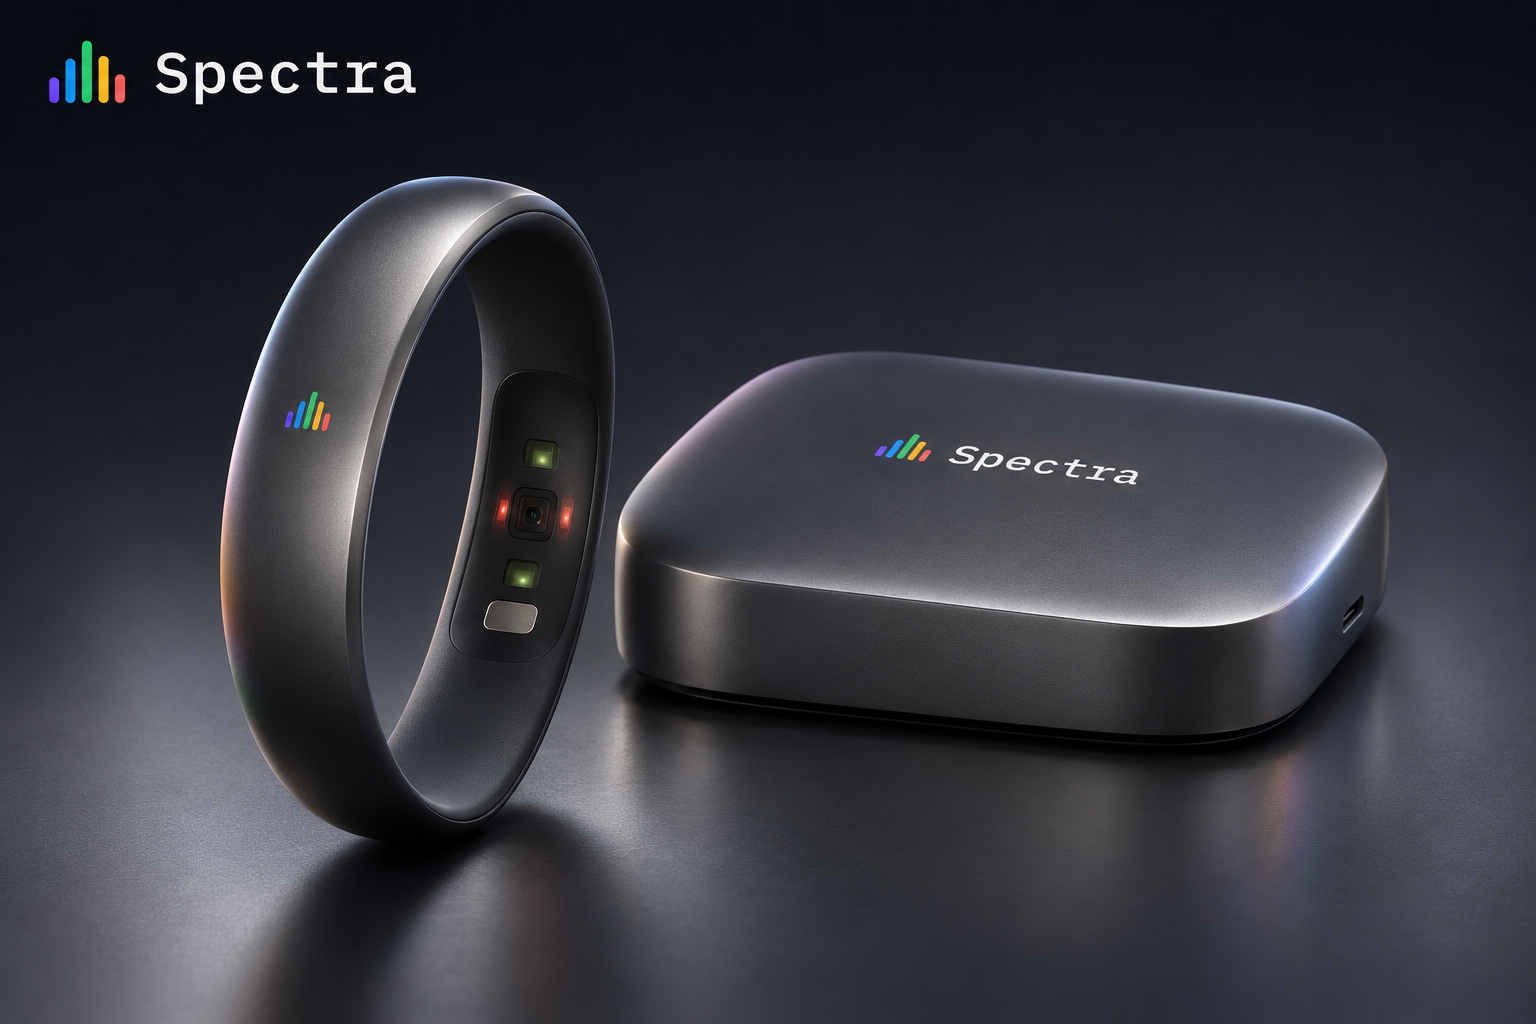
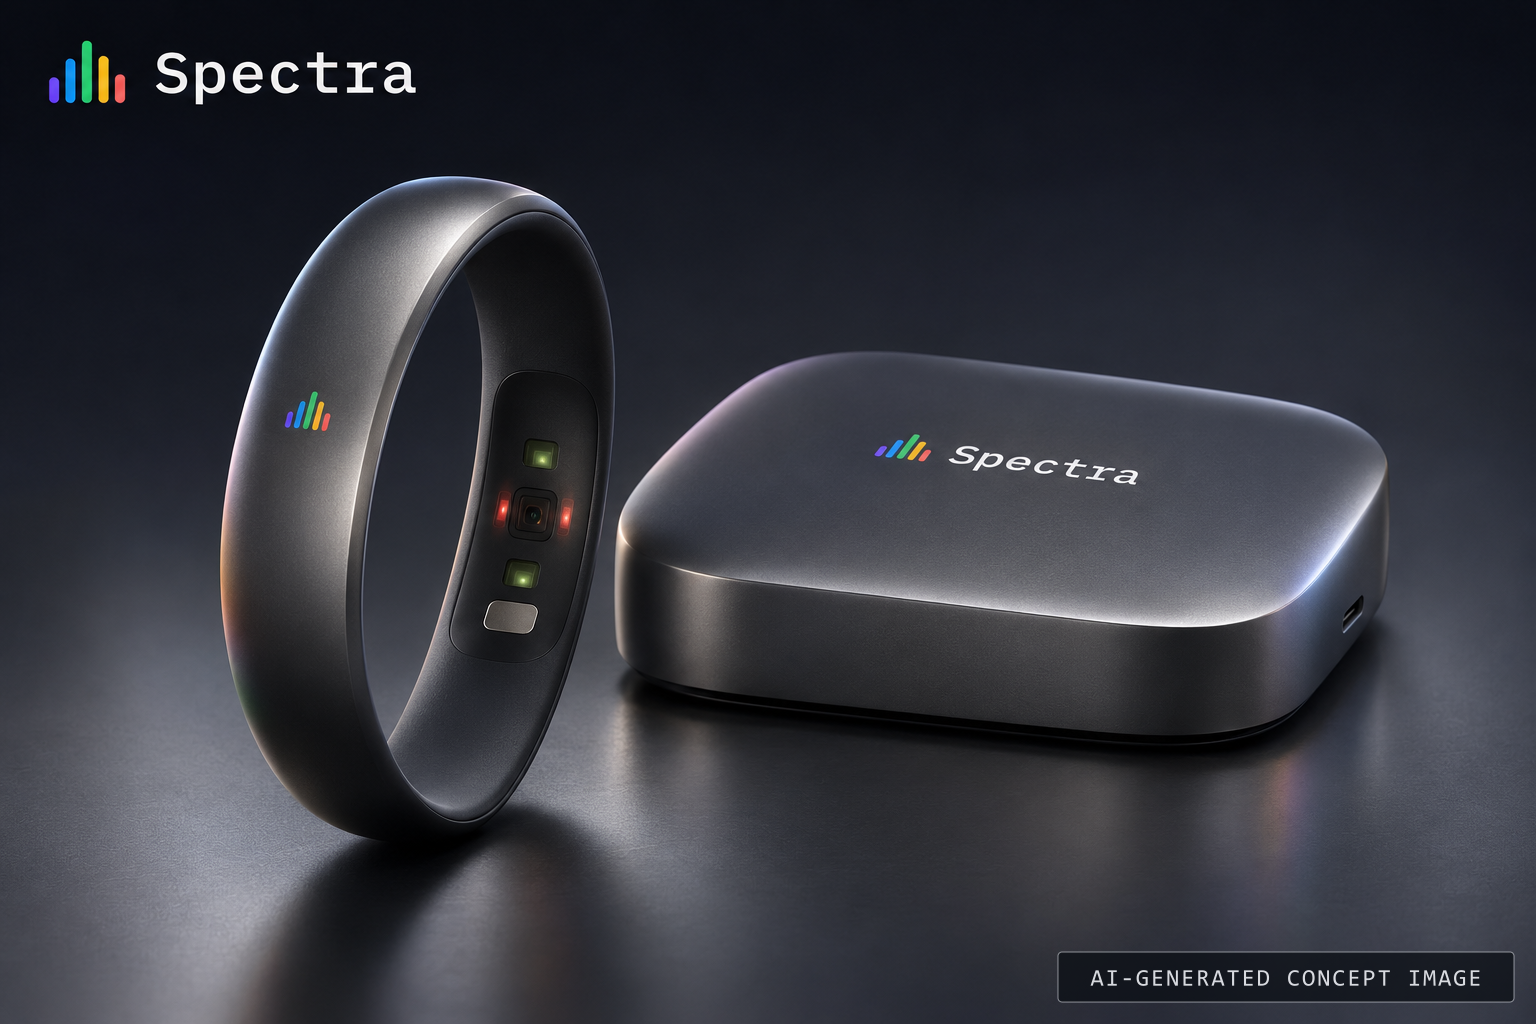
docs: rewrite the README, declare AI use and mark the generated images
Every image in src/assets now carries a visible AI-generated mark, and the two renders whose mark is masked by the layout get a caption. The README states what is real, what is synthetic and what is proposed, lists the open data, and holds the declaration of AI use.

Changed region(s): [[0.6875, 0.9062, 1.0, 1.0]]

diff --git a/README.md b/README.md
@@ -1,6 +1,36 @@
 # Spectra
 
-Screenless sensing and onboard intelligence for astronaut health monitoring.
+A screenless wristband and an onboard server that help astronauts notice changes in their own health, even when Earth is out of reach. Built for the NASA Space Apps Challenge.
+
+- Site: https://spectra-ai-wearables.github.io/spectra/
+- Mission simulator: https://spectra-ai-wearables.github.io/spectra/demo/
+
+## What is real and what is not
+
+| Part | Status |
+|---|---|
+| Wristband and onboard server | Design proposal. The images are concept renders, not manufactured hardware. |
+| Physiological readings | Synthetic, generated in the browser. No open record of an astronaut's continuous heart rate exists. |
+| Neural network and statistical baseline | Running. Trained and evaluated on synthetic sessions only. |
+| Light time, solar blackouts, space weather, link rate | Open data, from dated snapshots in `src/data`. |
+| Spectra Link | Proposal, played out in the simulator. It does not implement the network standards it names. |
+
+Spectra asks for a check. It does not diagnose, and a deviation score is not a probability of illness.
+
+## Open data
+
+`pnpm data` downloads each source, validates it and writes a snapshot to `src/data`. The site builds and runs from those files, never from the network.
+
+| Source | Used for |
+|---|---|
+| [NASA/JPL Horizons](https://ssd.jpl.nasa.gov/horizons/) | Earth to Mars distance and Sun-Earth-Mars angle per day: one-way light time and solar blackouts |
+| [NOAA SWPC](https://www.swpc.noaa.gov/) | GOES X-ray flux, proton flux and planetary Kp for the space weather panel |
+| [NASA DONKI](https://ccmc.gsfc.nasa.gov/tools/DONKI/) | Solar energetic particle events: the date of the solar particle scenario |
+| [NASA DSN Now](https://eyes.nasa.gov/apps/dsn-now/) | The slowest downlink in use, taken as the link rate |
+
+DONKI needs a NASA API key for more than a few requests. Put `NASA_API_KEY=...` in the environment before running `pnpm data donki`. Keep the key out of the repository; `.env` files are ignored.
+
+Two sources were evaluated and not used: NASA's Open Science Data Repository has no continuous astronaut heart rate, and we could not extract heart rate reliably from PhysioNet's wrist PPG recordings in the time we had.
 
 ## Develop
 
@@ -8,33 +38,32 @@ Use Node.js 24 and the package manager pinned in `package.json`.
 
 ```sh
 pnpm install
-pnpm dev
-```
-
-The GitHub Pages base path is `/spectra/`:
-
-- Home: `/spectra/`
-- Mission simulator: `/spectra/demo/`
-
-```sh
-pnpm check
-pnpm test
+pnpm dev        # http://localhost:4321/spectra/
+pnpm check      # types
+pnpm test       # simulator, model and controller
 pnpm build
 pnpm preview
+pnpm train      # retrain the model and rewrite the evaluation
+pnpm data       # refresh the open data snapshots
 ```
 
-## Experience
+## How the simulator is put together
 
-The home introduces the wristband and onboard server, with responsive product imagery, expandable component explanations, keyboard-operated blueprint tabs and full-size image viewing. Image dialogs close with Escape and return focus to their opener. Reduced-motion preferences disable animation.
+- `src/sim` holds the engine, with no DOM: session generator, quality check, monitors, likely cause, incidents, link, ledger and the ground's copy of the model.
+- `src/sim/scenarios` holds one file per scenario, each with a fixed seed and an expected result that a test checks.
+- `src/sim/sources` turns the snapshots in `src/data` into the values the engine needs.
+- `src/ml` holds the network, its training and its evaluation.
+- `src/demo` connects the engine to the page.
+- `src/terms.ts` holds every technique the site names, with the real parameters read from the code.
 
-The simulator is a separate page. Choose a scenario, then start the session. Playback advances ten simulated seconds per real second. Pause, resume, restart, review session insights, inspect system logs or interrupt the Earth link. Events remain on board until the simulated link can deliver them.
+Missing readings are never replaced with zero. A discarded window is shown as discarded, on board and on the ground.
 
-The existing neural network and statistical baseline remain intact. Both run on synthetic data. The hardware imagery illustrates proposed designs, not manufactured or flight-certified equipment.
+## Use of artificial intelligence
 
-## Assets and copy
+- **Images.** Every image in `src/assets` was generated or edited with an AI image tool from the team's design direction. Each file carries a visible "AI-generated concept image" mark. No NASA logo or mark appears in them.
+- **Code and copy.** An AI coding assistant (Claude Code) wrote most of the code, tests and site copy under the team's direction and review.
+- **Data.** No dataset here is AI-generated. The physiological readings come from a deterministic simulator in `src/sim/generator.ts`; the open data snapshots are stored as downloaded, reduced in resolution.
 
-Source images live in `src/assets`. Astro generates responsive WebP assets at build time; diagrams retain their original proportions and full-resolution enlargement. The two clean exploded views were generated with the built-in imagegen tool. See `docs/image-prompts.md` for the edit prompt.
+## Deploy
 
-Product explanations are HTML rather than text baked into promotional images. Keep the English copy concise, explain each action and state, and avoid em dashes. Do not replace missing readings with zero or imply that a deviation score is a diagnosis.
-
-No deployment is required for local development. The existing GitHub Actions workflow publishes the static build after a push to the configured branch.
+A push to `main` runs the tests, builds the site and publishes it to GitHub Pages through `.github/workflows/deploy.yml`. The base path is `/spectra/`.
